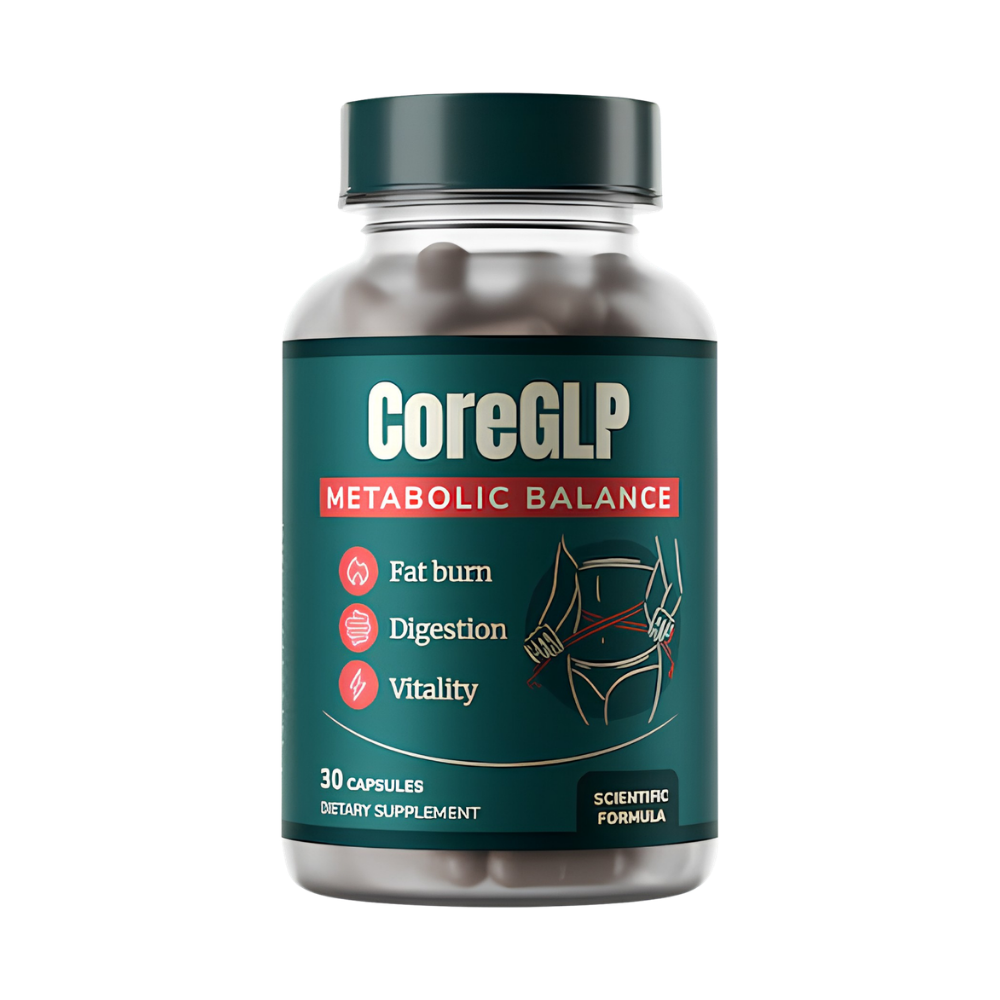
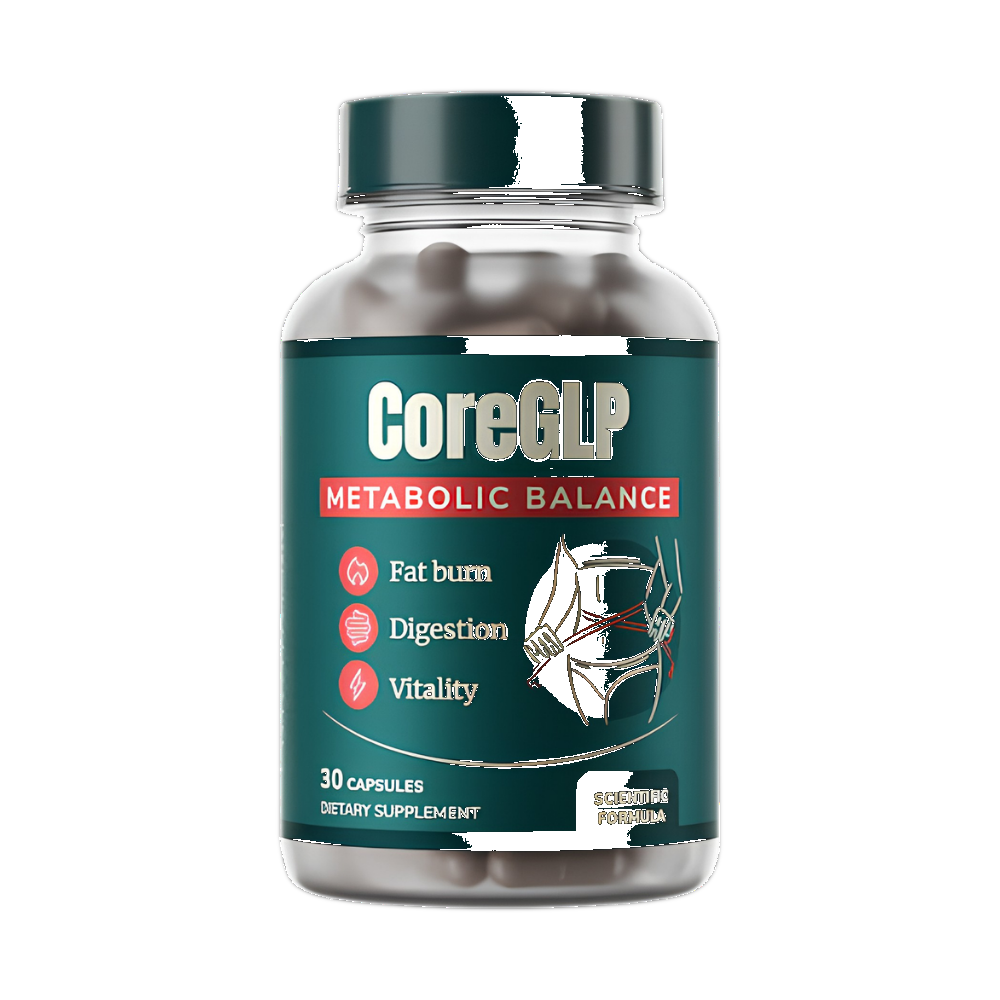
ds

diff --git a/vitagl1.html b/vitagl1.html
@@ -433,19 +433,18 @@ h1 em {
 /* ─── CARD OVERVIEW ROW ─── */
 .card-overview {
   display: grid;
-  grid-template-columns: 130px 1fr;
+  grid-template-columns: 120px 1fr;
   gap: 20px;
   padding: 24px 24px 20px;
   align-items: start;
 }
 .card-img {
-  width: 130px; height: 160px;
-  border-radius: 10px;
-  background: #f0f4ff;
-  border: 1px solid var(--border);
+  width: 120px; height: 120px;
+  border-radius: 12px;
+  background: #fff;
+  overflow: hidden;
   display: flex; align-items: center; justify-content: center;
   flex-shrink: 0;
-  overflow: hidden;
 }
 .card-img img {
   width: 100%; height: 100%;
@@ -879,8 +878,14 @@ footer {
   .btn-green, .btn-cta { padding: 14px 12px; gap: 6px; font-size: 13px; }
 
   .stats-strip { grid-template-columns: repeat(2, 1fr); }
-  .card-overview { grid-template-columns: 1fr; padding: 20px 16px; }
-  .card-img { width: 100%; max-width: 100%; height: 140px; }
+  .card-overview { grid-template-columns: 1fr; gap: 0; padding: 0; }
+  .card-img {
+    width: 100%;
+    height: 200px;
+    border-radius: 0;
+    border-bottom: 1px solid var(--border);
+  }
+  .card-meta { padding: 20px 16px; }
   .price-row { gap: 6px; }
   .price-note { font-size: 12px; }
   .pc-table { margin: 0 16px 16px; max-width: calc(100% - 32px); }
@@ -1080,7 +1085,7 @@ footer {
       <span class="badge">TOP PICK</span>
     </div>
     <div class="card-overview">
-      <div class="card-img"><img src="images/vitaglp.png" alt="VitaGLP" width="130" height="160" loading="lazy"></div>
+      <div class="card-img"><img src="images/vitaglp.png" alt="VitaGLP" width="120" height="120" loading="lazy"></div>
         <div class="score-row">
           <span class="score-big">9,4</span>
           <span class="score-out">/10</span>
@@ -1133,7 +1138,7 @@ footer {
   <div class="card">
     <div class="card-header-runner">#2 &nbsp;·&nbsp; Zweiter Platz</div>
     <div class="card-overview">
-      <div class="card-img"><img src="images/coreglp.png" alt="CoreGLP" width="130" height="160" loading="lazy"></div>
+      <div class="card-img"><img src="images/coreglp.png" alt="CoreGLP" width="120" height="120" loading="lazy"></div>
       <div class="card-meta">
         <div class="card-brand">CoreGLP</div>
         <div class="score-row">
@@ -1173,7 +1178,7 @@ footer {
   <div class="card">
     <div class="card-header-runner">#3 &nbsp;·&nbsp; Dritter Platz</div>
     <div class="card-overview">
-      <div class="card-img"><img src="images/wego6.png" alt="wego6" width="130" height="160" loading="lazy"></div>
+      <div class="card-img"><img src="images/wego6.png" alt="wego6" width="120" height="120" loading="lazy"></div>
       <div class="card-meta">
         <div class="card-brand">wego6</div>
         <div class="score-row">